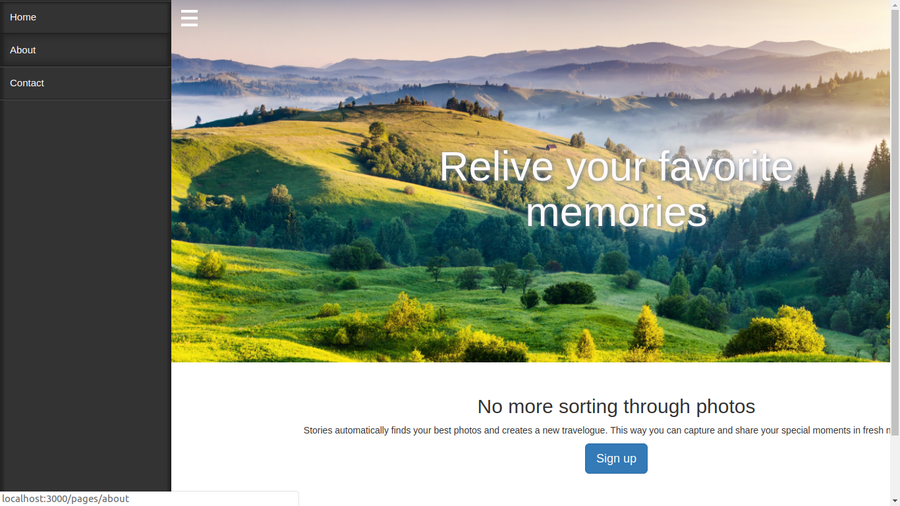
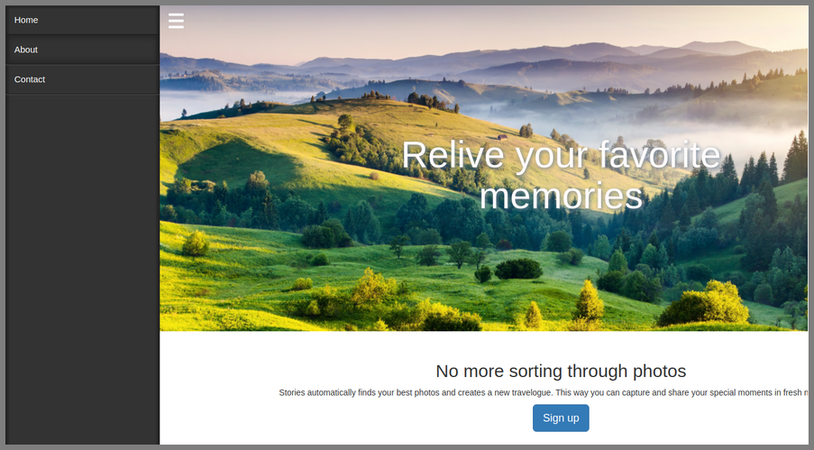
Modification on all pages,images and a project addition

diff --git a/app/assets/stylesheets/pages.css.scss b/app/assets/stylesheets/pages.css.scss
@@ -8,7 +8,7 @@
   font-family: "Times New Roman", Times, serif;
   font-style: italic;
   display: inline;
-  color: #DAA520;
+  color: #C0C0C0;
   font-size: 20px;
   float: right;
   background-color: #191970;
@@ -63,6 +63,7 @@
 
 .jumbotron h1 {
   color: #fffff0;
+  font-size: 40px;
 }
 
 .highlight {
@@ -79,6 +80,11 @@
 
 .banner {
   margin: 20px;
+}
+
+.banner h2 {
+  text-align: center;
+  text-decoration: underline;
 }
 
 .banner li {
